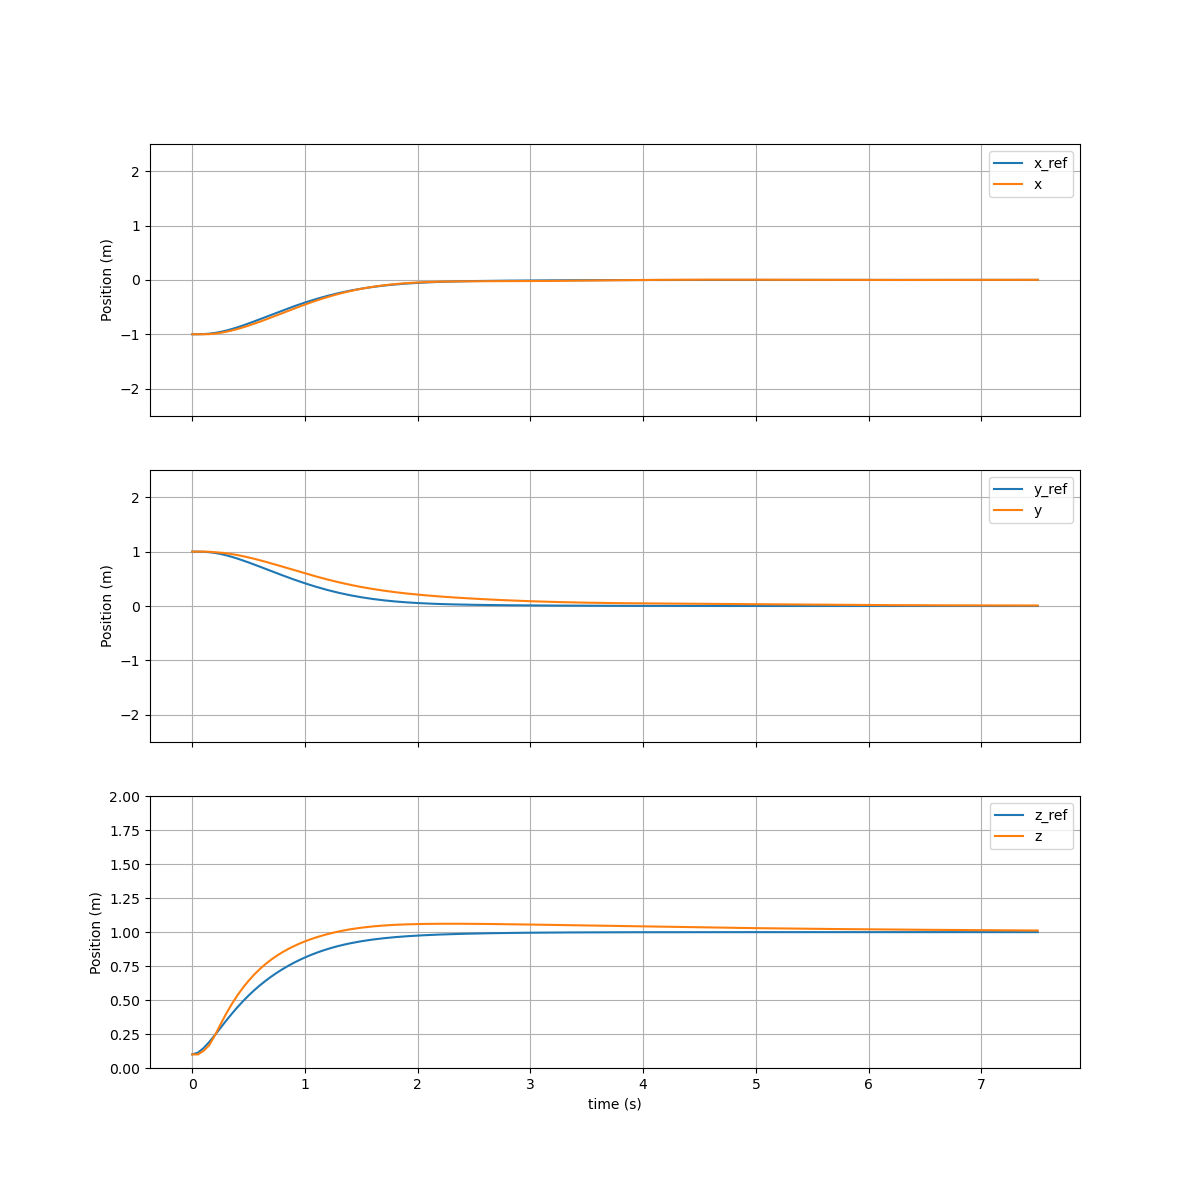
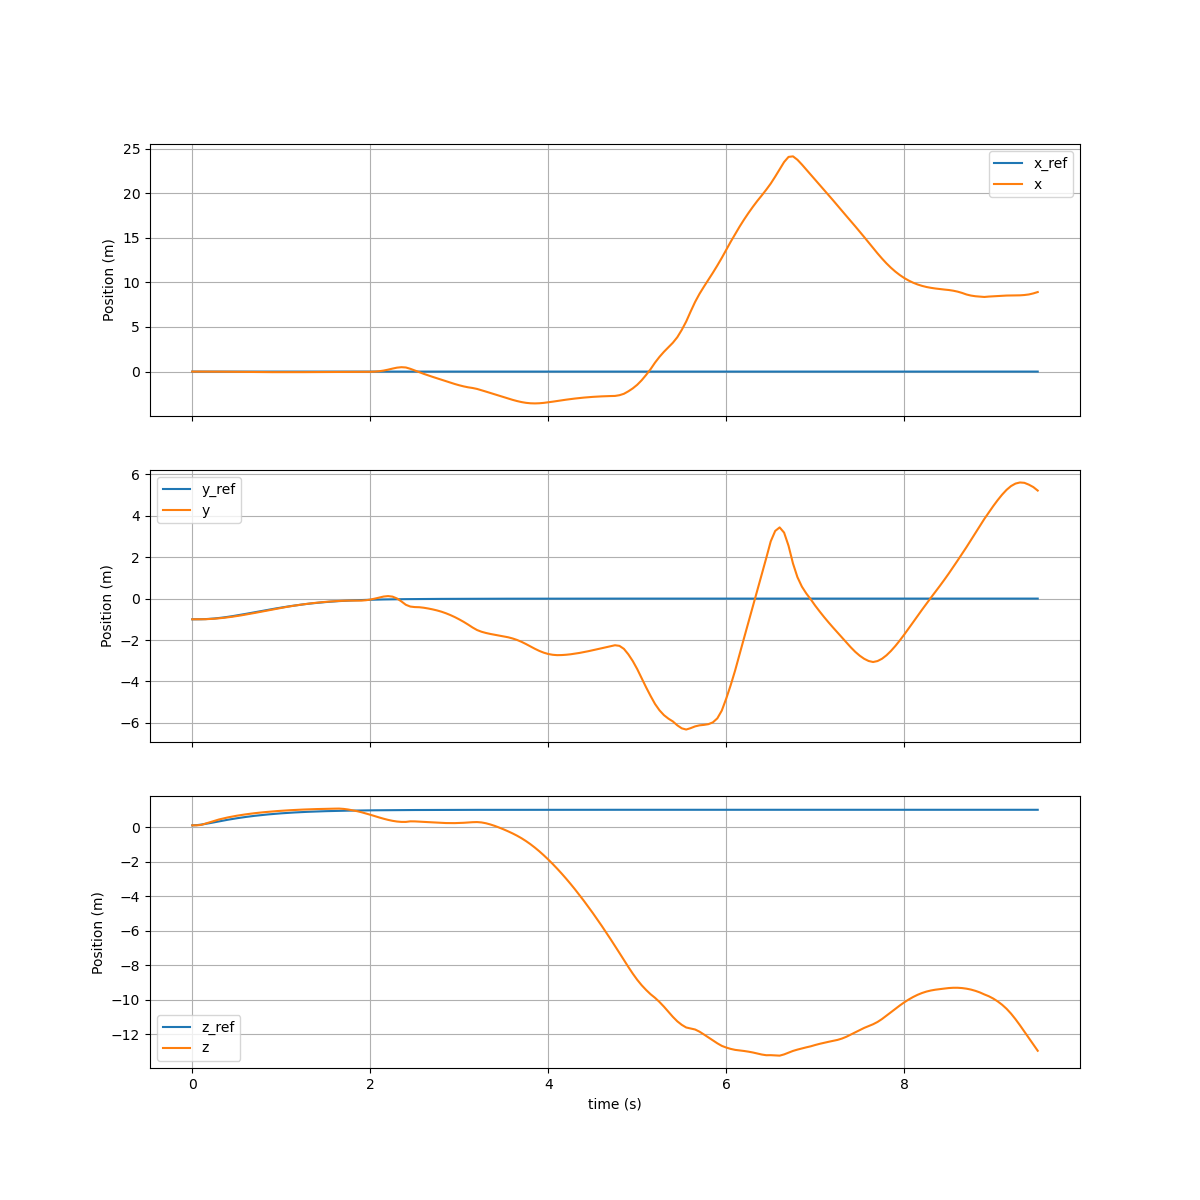
committing random plots, no improvement

diff --git a/plot.py b/plot.py
@@ -11,25 +11,25 @@ def plot(time, ref_states_and_controls, final_states, final_controls, Nsim):
     ax_posX.plot(time, final_states[:, 0], label='x')
 
     ax_posX.set_ylabel('Position (m)')
-    ax_posX.set_ylim(-2.5, 2.5)
+    # ax_posX.set_ylim(-2.5, 2.5)
     ax_posX.legend()
     ax_posX.grid()
     ax_posY.plot(time, ref_states_and_controls['yref'][:Nsim+1], label='y_ref')
     ax_posY.plot(time, final_states[:,1], label='y')
     
     ax_posY.set_ylabel('Position (m)')
-    ax_posY.set_ylim(-2.5, 2.5)
+    # ax_posY.set_ylim(-2.5, 2.5)
     ax_posY.legend()
     ax_posY.grid()
     ax_posZ.plot(time, ref_states_and_controls['zref'][:Nsim+1], label='z_ref')
     ax_posZ.plot(time, final_states[:, 2], label='z')
     
     ax_posZ.set_ylabel('Position (m)')
-    ax_posZ.set_ylim(0, 2)
+    # ax_posZ.set_ylim(0, 2)
     ax_posZ.legend()
     ax_posZ.grid()
     ax_posZ.set_xlabel('time (s)')
-    # fig.savefig('Plots/ref_test_pos.png')
+    # fig.savefig('Plots/tube_dist_test_pos.png')
     fig.savefig('Plots/dmpc_test_pos.png')
 
 
@@ -38,25 +38,25 @@ def plot(time, ref_states_and_controls, final_states, final_controls, Nsim):
     ax_oriX.plot(time, final_states[:, 3], label='phi')
     
     ax_oriX.set_ylabel('Orientation (rad)')
-    ax_oriX.set_ylim(-3.14/2, 3.14/2)
+    # ax_oriX.set_ylim(-3.14/2, 3.14/2)
     ax_oriX.legend()
     ax_oriX.grid()
     ax_oriY.plot(time, ref_states_and_controls['thetaref'][:Nsim+1], label='theta_ref')
     ax_oriY.plot(time, final_states[:, 4], label='theta')
     
     ax_oriY.set_ylabel('Orientation (rad)')
-    ax_oriY.set_ylim(-3.14/2, 3.14/2)
+    # ax_oriY.set_ylim(-3.14/2, 3.14/2)
     ax_oriY.legend()
     ax_oriY.grid()
     ax_oriZ.plot(time, ref_states_and_controls['psiref'][:Nsim+1], label='psi_ref')
     ax_oriZ.plot(time, final_states[:, 5], label='psi')
     
     ax_oriZ.set_ylabel('Orientation (rad)')
-    ax_oriZ.set_ylim(-6.28/2, 6.28/2)
+    # ax_oriZ.set_ylim(-6.28/2, 6.28/2)
     ax_oriZ.legend()
     ax_oriZ.grid()
     ax_oriZ.set_xlabel('time (s)')
-    # fig2.savefig('Plots/ref_test_ori.png')
+    # fig2.savefig('Plots/tube_dist_test_ori.png')
     fig2.savefig('Plots/dmpc_test_ori.png')
 
 
@@ -80,7 +80,7 @@ def plot(time, ref_states_and_controls, final_states, final_controls, Nsim):
     ax_velZ.legend()
     ax_velZ.grid()
     ax_velZ.set_xlabel('time (s)')
-    # fig3.savefig('Plots/ref_test_vel.png')
+    # fig3.savefig('Plots/tube_dist_test_vel.png')
     fig3.savefig('Plots/dmpc_test_vel.png')
 
 
@@ -104,7 +104,7 @@ def plot(time, ref_states_and_controls, final_states, final_controls, Nsim):
     ax_angZ.legend()
     ax_angZ.grid()
     ax_angZ.set_xlabel('time (s)')
-    # fig4.savefig('Plots/ref_test_ang.png')
+    # fig4.savefig('Plots/tube_dist_test_ang.png')
     fig4.savefig('Plots/dmpc_test_ang.png')
 
 
@@ -123,5 +123,5 @@ def plot(time, ref_states_and_controls, final_states, final_controls, Nsim):
     ax_rpm.legend()
     ax_rpm.grid()
     ax_rpm.set_xlabel('time (s)')
-    # fig5.savefig('Plots/ref_test_rpm.png')
+    # fig5.savefig('Plots/tube_dist_test_rpm.png')
     fig5.savefig('Plots/dmpc_test_rpm.png')

diff --git a/main.py b/main.py
@@ -18,9 +18,15 @@ import plot
 
 def main():
 
-    state_init = Init.initial(Init, x=rand.randint(-2, 2), y=rand.randint(-2, 2), z=0.1)
+    # state_init = Init.initial(Init, x=rand.randint(-2, 2), y=rand.randint(-2, 2), z=0.1)
+    state_init = Init.initial(Init, x=0, y=-1, z=0.1)
     state_target = Init.target(Init, x=0, y=0, z=1)
     t0 = 0
+    print('Starting State')
+    print(f'x: {state_init[0]}, y: {state_init[1]}, z: {state_init[2]}')
+    print(f'phi: {state_init[3]}, theta: {state_init[4]}, psi:{state_init[5]}')
+    print(f'vx: {state_init[6]}, vy: {state_init[7]}, vz:{state_init[8]}')
+    print(f'wx: {state_init[9]}, wy: {state_init[10]}, wz:{state_init[11]}')
 
     # get nominal dynamics
     params = Params()
@@ -75,20 +81,22 @@ def main():
         u_a_tmp = u_a.detach().numpy()
         u_a_DM = ca.DM([[u_a_tmp[0, 0]], [u_a_tmp[0, 1]], [u_a_tmp[0, 2]], [u_a_tmp[0, 3]]])
         u_total = u_mpc + u_a_DM
+        # u_total = u_mpc
 
         # simulate plant 
-        # f_bar_val = f_bar(state_init, u_total)  + params.gox @ (drag) # for sim with tube mpc only
+        # f_val = f_bar(state_init, u_total)  + params.gox @ (drag) # for sim with tube mpc only
         f_val = f_bar(state_init, u_mpc)  + params.gox @ (u_a_DM + drag)
         state_init = ca.DM(state_init + (params.step_horizon *f_val))
         t0 = t0 + params.step_horizon
 
         # update outer layer wieghts
-        delta = (params.gamma * sigma.detach().numpy() * (np.array(drag.full()) + u_a.detach().numpy().T))/(np.linalg.norm(sigma.detach().numpy())**2)
+        delta = (params.gamma * sigma.detach().numpy().T * (np.array(drag.full()) + u_a.detach().numpy().T).T)/(np.linalg.norm(sigma.detach().numpy().T)**2)
         K_a_bar = K_a + delta
 
         # check bounds on K
         if np.linalg.norm(K_a_bar) > params.K_max:
             K_a = (params.K_max / np.linalg.norm(K_a_bar)) * K_a_bar
+            print('Updating K_a with K_max')
         else:
             K_a = K_a_bar
 
@@ -104,14 +112,14 @@ def main():
         
         # train hidden layers
         if i != 0 and i % params.freq_ratio == 0:
-            print('here')
+            print('Training Hidden Layers')
             s, a = buffer.sample_batch(params.batch_size)
             output, losses = adap_control.train_layers(adap_model, optimizer, loss, s, a)
 
 
         print(i)
 
-    print('Final States')
+    print('Final State')
     print(f'x: {final_states[-1, 0]}, y: {final_states[-1, 1]}, z: {final_states[-1, 2]}')
     print(f'phi: {final_states[-1, 3]}, theta: {final_states[-1, 4]}, psi:{final_states[-1, 5]}')
     print(f'vx: {final_states[-1, 6]}, vy: {final_states[-1, 7]}, vz:{final_states[-1, 8]}')

diff --git a/params.py b/params.py
@@ -9,7 +9,7 @@ class Params(object):
         self.step_horizon = 0.05  # time between steps in seconds
         self.Nref = 200
         self.Ntube = 10      # number of look ahead steps
-        self.Nsim = 150
+        self.Nsim = 190
         self.sim_time = 200  
 
         # state variables
@@ -99,7 +99,7 @@ class Params(object):
         )
 
         # adaptive control network params
-        self.lr = 0.001
+        self.lr = 0.01
         self.gamma = 0.7
         self.input_size = 12
         self.hidden_size = 256
@@ -108,11 +108,11 @@ class Params(object):
         self.batch_size = 32
 
         # buffer params
-        self.buffer_size = 32
+        self.buffer_size = 100
 
         # K_max for weight update of DNN (for now leave as such)
-        self.K_max = 8.0
-        self.freq_ratio = 10
+        self.K_max = 2.0
+        self.freq_ratio = 30
 
 
 

diff --git a/adap_control.py b/adap_control.py
@@ -62,14 +62,12 @@ class DNN(nn.Module):
     def adapt_outer_layer(self, K_a):
         K_a = torch.from_numpy(K_a)
         self.fc7.weight.data = K_a
+        # check this
         # Still not sure if this is totally correct but I think sizes will match up at least
         bias_ = torch.tensor([K_a[0, 0], K_a[0, 1], K_a[0, 2], K_a[0, 3]])
         bias = torch.nn.Parameter(bias_)
         self.fc7.bias = bias
 
-
-# Should probably define all paramters like optimizer criterion etc in CFParams
-# FIXME
 def train_layers(model, optimizer, criterion, inputs, labels):
     for i in range(inputs.size(0)):
         model.train()

diff --git a/gen_disturbance.py b/gen_disturbance.py
@@ -4,7 +4,7 @@ import casadi as ca
 
 class GenWind(object):
     def __init__(self):
-        self.Vm = 1
+        self.Vm = 2
         self.dm = 3
         self.rho = 1
 
@@ -35,6 +35,7 @@ class GenWind(object):
             wind = 0*self.Vm*np.ones((m, 1))
         drag = 0.5*self.rho*np.eye(m)@wind**2
         drag_to_return = ca.DM([[drag[0,0]], [drag[1,0]], [drag[2,0]], [drag[3,0]]])
+        
         return drag_to_return
 
 
